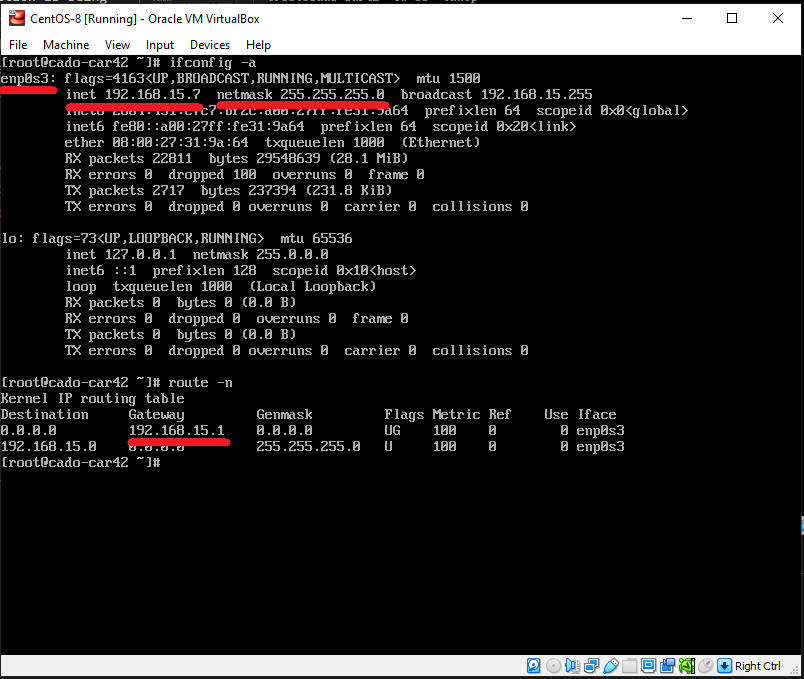
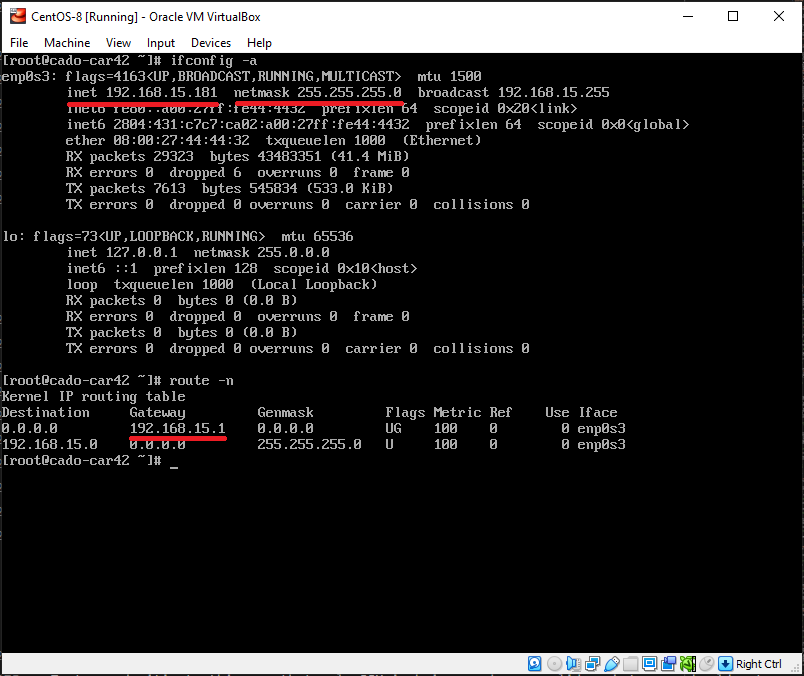
Documentation

diff --git a/guides/Bonus-en.md b/guides/Bonus-en.md
@@ -126,8 +126,8 @@ You should configure your MariaDB like [this](screenshots/42.png) and [this](scr
 ```sh
 # Enter current password for root (enter for none): Enter
 # Set root password? [Y/n]: Y
-# New password: Enter password
-# Re-enter new password: Repeat password
+# New password: C1t1zenK4ne
+# Re-enter new password: C1t1zenK4ne
 # Remove anonymous users? [Y/n]: Y
 # Disallow root login remotely? [Y/n]: Y
 # Remove test database and access to it? [Y/n]:  Y
@@ -212,7 +212,7 @@ Next, you need to edit a file called `modules.conf` like [this](screenshots/53.p
 # vim /etc/lighttpd/modules.conf
 ```
 
-Then, open a third file called `/etc/lighttpd/conf.d/fastcgi.conf` and edit [these lines](screenshots/54.png).
+Then, open a fourth file called `/etc/lighttpd/conf.d/fastcgi.conf` and edit [these lines](screenshots/54.png).
 ```sh
 # vi /etc/lighttpd/conf.d/fastcgi.conf
 ```
@@ -259,19 +259,23 @@ After that, you can download the latest available release of Wordpress and unzip
 ```sh
 # wget http://wordpress.org/latest.tar.gz
 # tar -xzvf latest.tar.gz
-# mv wordpress/ /var/www/html
-# rm -rf latest.tar.gz
+# mv wordpress/* /var/www/html/
+# rm -rf latest.tar.gz wordpress
 ```
 
 Create a Wordpress configuration file from its downloaded sample, and then edit it:
 ```sh
-# mv /var/www/html/wordpress/wp-config-sample.php /var/www/html/wordpress/wp-config.php
+# mv /var/www/html/wp-config-sample.php /var/www/html/wp-config.php
 # vim /var/www/html/wp-config.php
 ```
 
 You must alter the 3 lines that specify the `DB name`, `DB user`, `DB password` and `DB host`, like [this](screenshots/46.png).
 
-> In `CentOS`, at the first try, I needed to change the `/wordpress/` folder location from `/var/www/html/` to `/var/www/lighttpd`. Apparently that was the only folder allowed on port 80 to connect remotely. The location of the folder to apply the next steps depend on this port configuration. Modify them appropriately.
+Then, you must make sure that `lighttpd` is getting the correct folder in which your wordpress data is (`/var/www/html/`). To do so, change your lighttpd server root location to be like [this](screenshots/61.png).
+
+```sh
+# vim /etc/lighttpd/lighttpd.conf
+```
 
 Lastly, you must change your wordpress folders permitions:
 
@@ -285,25 +289,13 @@ In Debian:
 ```sh
 # chown -R www-data:www-data /var/www/html/
 # chmod -R 755 /var/www/html/
+# chcon -t httpd_sys_rw_content_t /var/www/html/wordpress -R
 ```
 
-> In `CentOS` you also must set the correct `SELinux` context to the `/var/www/html/wordpress` directory and its contents:
-> ```sh
-> # semanage fcontext -a -t httpd_sys_rw_content_t "/var/www/html/wordpress(/.*)?"
-> ```
-> For the SELinux changes to take effect, run the following command:
-> ```sh
-> # restorecon -Rv /var/www/html/wordpress
-> ```
-> Then, restart `lighttpd`
-> ```sh
-> # systemctl restart lighttpd
-> ```
-
-At last, we were able to go to my computer's browser and type:
+At last, restart `lighttpd` againg and we are finally able to go to the computer's browser and type:
 
 ```txt
-http://192.168.15.69/wordpress
+http://192.168.15.181/
 ```
 
 The [configuration menu](screenshots/55.png) for Wordpress should appear. You may configure it as you wish, [these](screenshots/56.png) are my configuration settings. Once it's all set, you may configure it as you wish: the sky is the limit!

diff --git a/guides/CentOS-en.md b/guides/CentOS-en.md
@@ -202,6 +202,11 @@ To eventually disable the firewall, use:
 # ufw disable
 ```
 
+TIP: It's important to restart your firewall at any port's changes or additions, in order to make sure the alterations will stuck.
+```sh
+# systemctl restart ufw
+```
+
 ---
 <h2 id="SSH">
 	<b>SSH</b>
@@ -211,8 +216,7 @@ To eventually disable the firewall, use:
 
 In order to install or update the SSH server and client, use: 
 ```sh
-# dnf install openssh-server
-# dnf install openssh-clients
+# dnf install openssh
 ```
 In order to check if the ssh service is running, use:
 ```sh
@@ -227,7 +231,7 @@ To enable it on boot (**very important**), use:
 # systemctl enable sshd
 ```
 
-In order to change the default SSH port, you need to [edit](screenshots/28.png) the `/etc/ssh/sshd_config` so that you deny access from root and the default port becomes 4242. Use a text editor of your choice. I chose vim. 
+In order to change the default SSH port, you need to [edit](screenshots/28.png) the `/etc/ssh/sshd_config` so that you deny access from root and the default port becomes 4242. Use a text editor of your choice. I chose vim (you may need to install it by using `dnf install vim` on the command line). 
 ```sh
 # vim /etc/ssh/sshd_config
 ```
@@ -312,7 +316,7 @@ To connect remotely to your server use:
 
  In my server, the command was written as followed:
 > ```sh
-> # ssh cado-car@192.168.15.7 -p 4242
+> # ssh cado-car@192.168.15.181 -p 4242
 > ```
 
 Howeverm this command only works if both computers are logged into the same local network. You may test this in your own computer. There are no root access in this method, my security reasons. 
@@ -486,6 +490,7 @@ To be evaluated, you must be able to show all users on your computer, add or rem
 
 Your intra login user must be on `wheel`(`sudo`) and `user42` groups. To ensure that happens, you can use some of the following commands:
 
+- `less /etc/group | cut -d ":" -f 1` - show list of all users on computer;
 - `groups <username>` - shows user's groups;
 - `groupadd <groupname>` - create new group;
 - `groupdel <groupname>` - delete group;
@@ -552,7 +557,7 @@ Cron uses `crontab` files to schedule given tasks. To manage those tasks and its
 ```
 It will create your own crontab (each user has one - or many). You can edit to your own like, following the syntax shown [here](screenshots/37.png). 
 
-The task specified (in my case `bash /root/scripts/monitoring.sh | wall`) will be executed on a step of every 10 (`*/10`) minutes (first column). 
+The task specified (in my case `bash /root/scripts/monitoring.sh | wall`) will be executed on a step of every 10 (`*/10`) minutes (first column). However, according to the projects specifications, the script must run from the server **startup**. To do so, I added a [`sleep` script]() on my crontab. 
 
 Some useful cron commands:
 - `crontab -l` - display the current cron settings
